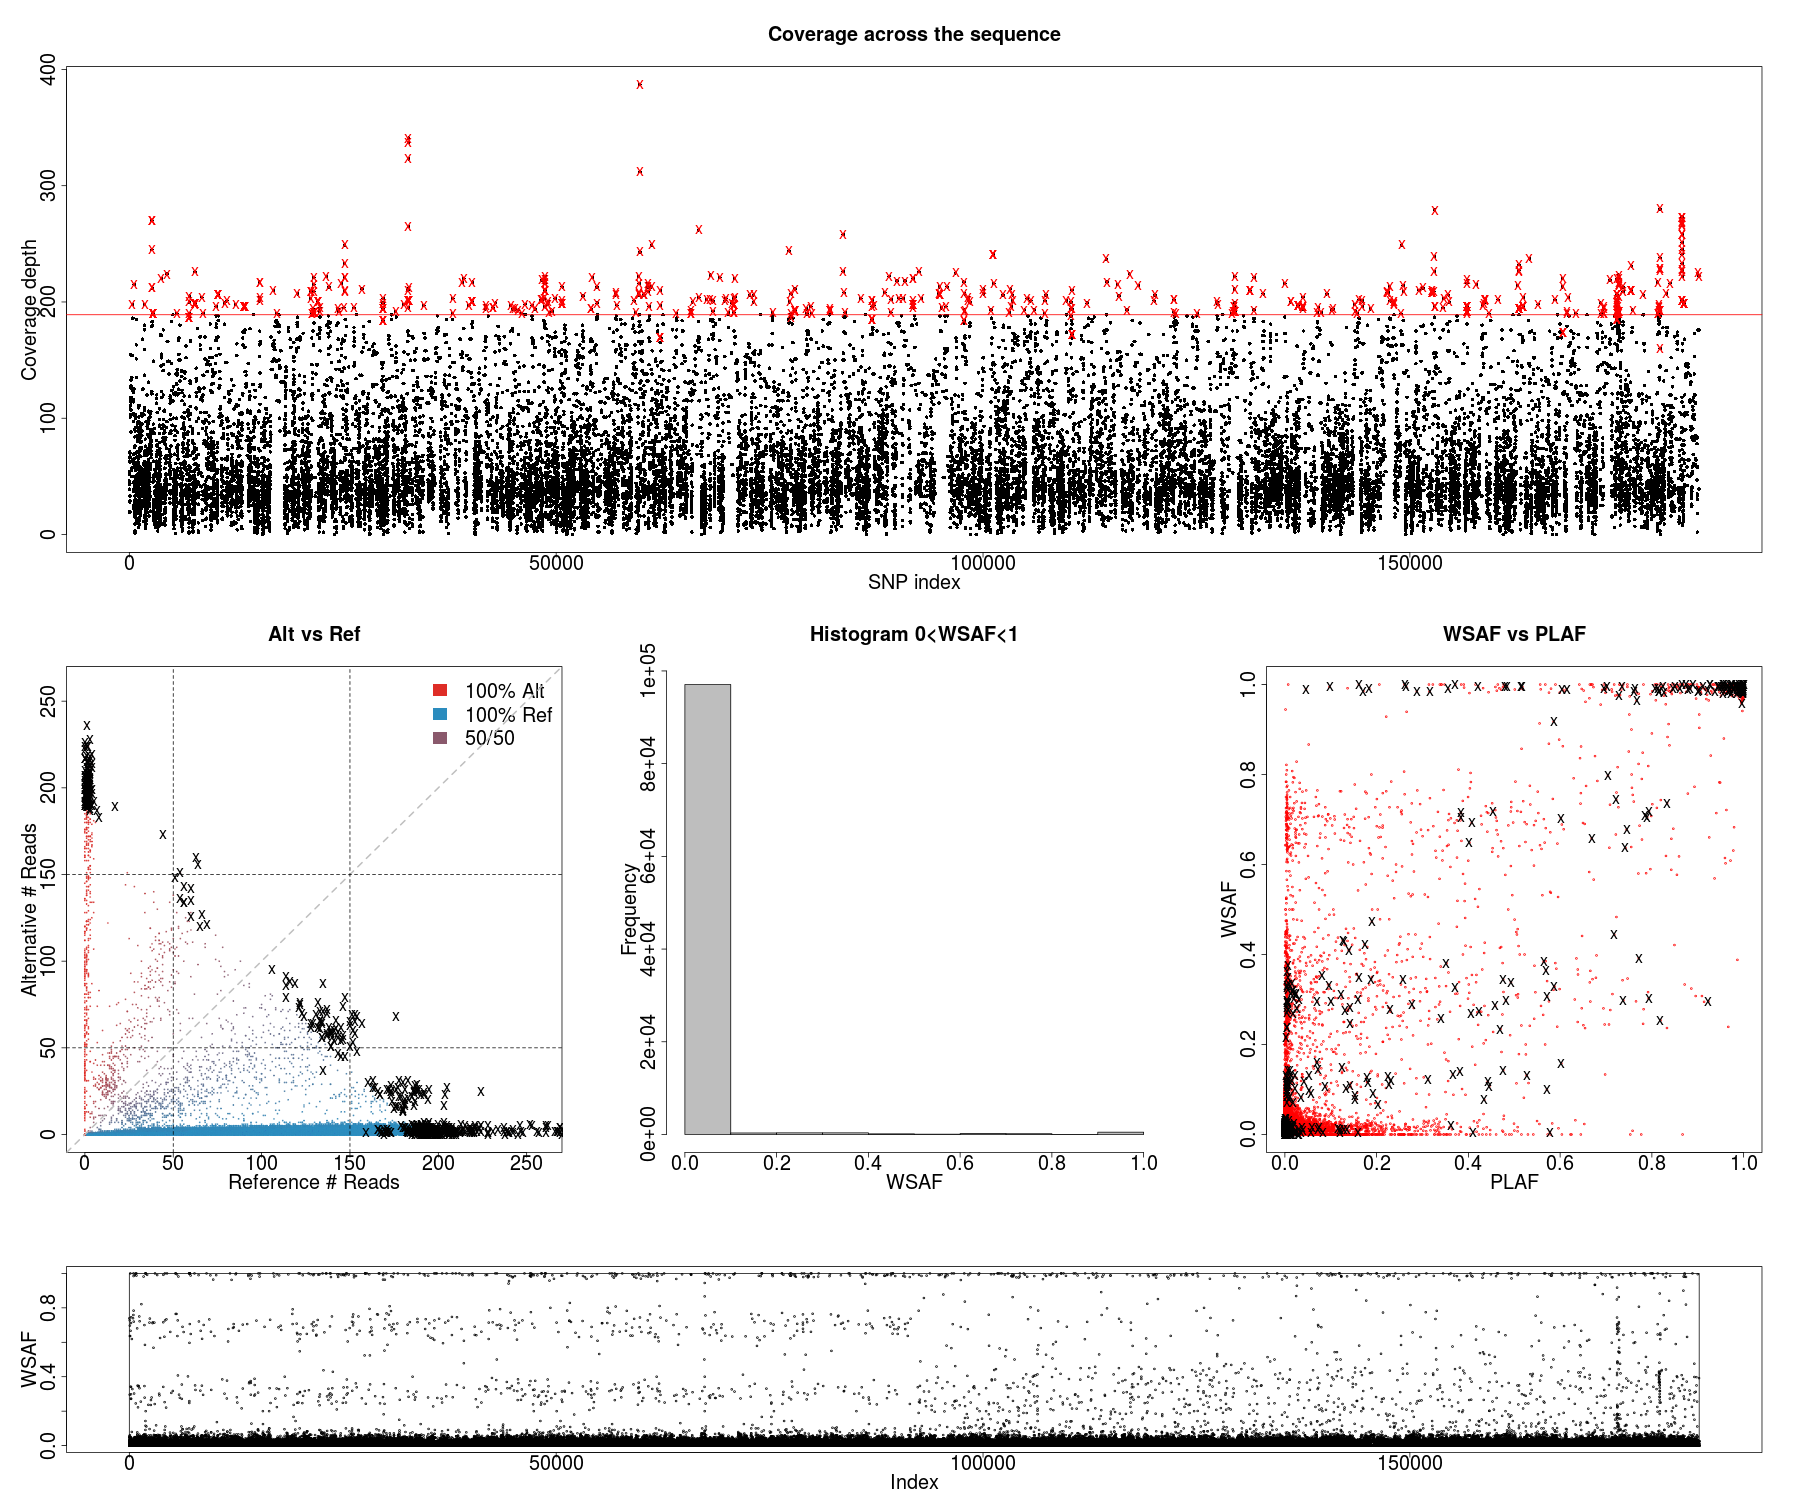
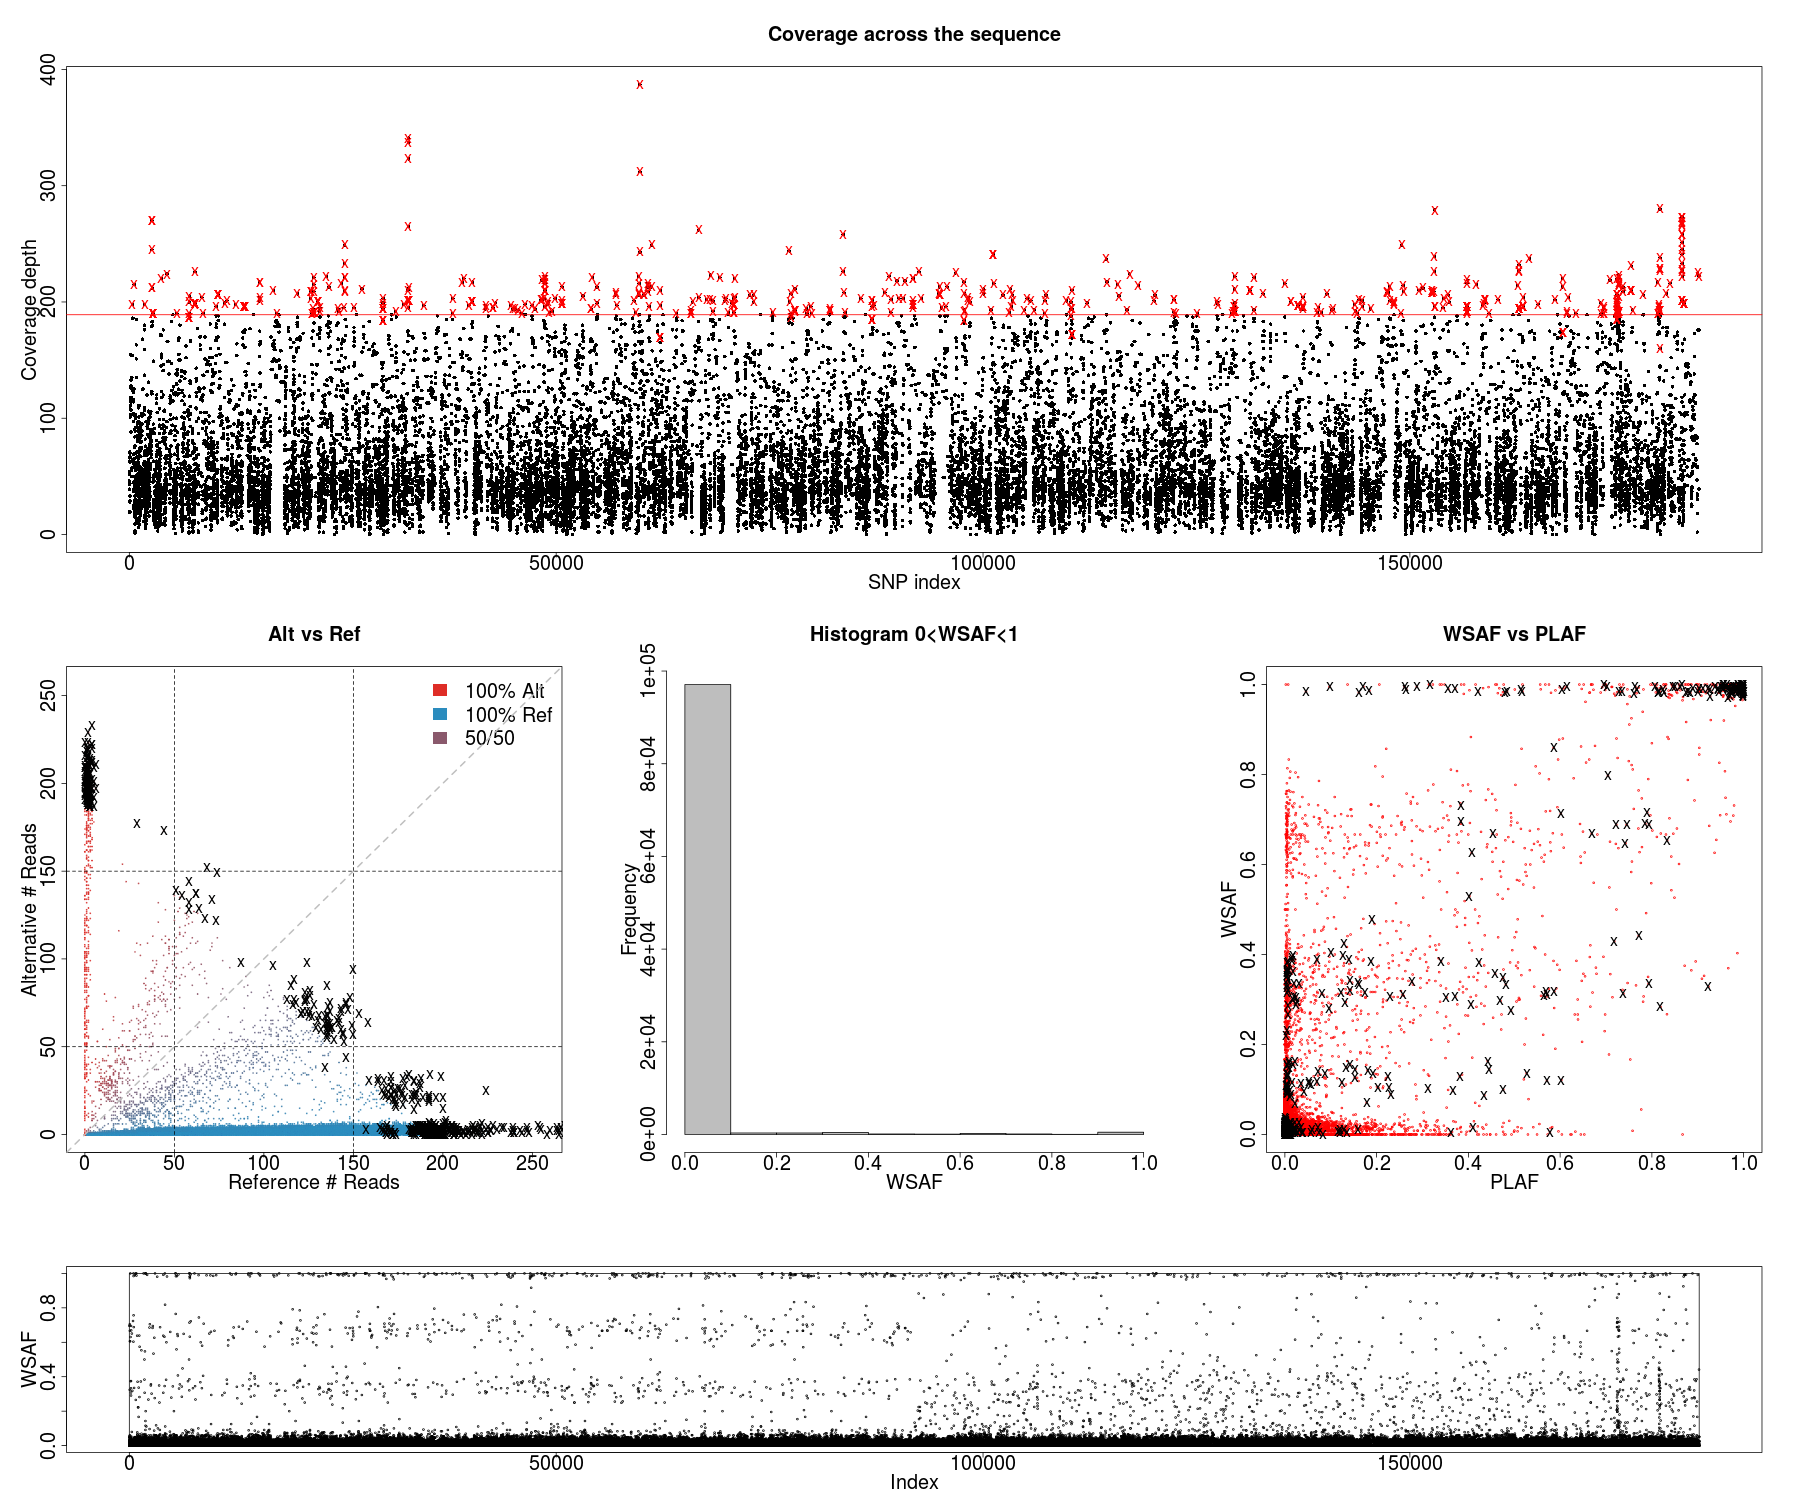
update imbalance probabilities

diff --git a/fixed_IBD/k_eq_4/README.md b/fixed_IBD/k_eq_4/README.md
@@ -17,17 +17,17 @@
 
 ```bash
 case=k_eq_4.4bites
-dataExplore.r -ref alleleCount/africaGroup2.${case}.6p10v20v30v40.ref -alt alleleCount/africaGroup2.${case}.6p10v20v30v40.alt -plaf ../../field_haps/africaGroup2_PLAF_14.txt -exclude exclude/africaGroup2.${case}.6.exclude -o ${case}
+dataExplore.r -ref alleleCount/africaGroup2.${case}.6p11v22v30v37.ref -alt alleleCount/africaGroup2.${case}.6p11v22v30v37.alt -plaf ../../field_haps/africaGroup2_PLAF_14.txt -exclude exclude/africaGroup2.${case}.6.exclude -o ${case}
 
 case=k_eq_4.3bites
-dataExplore.r -ref alleleCount/africaGroup2.${case}.6p10v20v30v40.ref -alt alleleCount/africaGroup2.${case}.6p10v20v30v40.alt -plaf ../../field_haps/africaGroup2_PLAF_14.txt -exclude exclude/africaGroup2.${case}.6.exclude -o ${case}
+dataExplore.r -ref alleleCount/africaGroup2.${case}.6p11v22v30v37.ref -alt alleleCount/africaGroup2.${case}.6p11v22v30v37.alt -plaf ../../field_haps/africaGroup2_PLAF_14.txt -exclude exclude/africaGroup2.${case}.6.exclude -o ${case}
 
 case=k_eq_4.2bites_case1
-dataExplore.r -ref alleleCount/africaGroup2.${case}.6p10v20v30v40.ref -alt alleleCount/africaGroup2.${case}.6p10v20v30v40.alt -plaf ../../field_haps/africaGroup2_PLAF_14.txt -exclude exclude/africaGroup2.${case}.6.exclude -o ${case}
+dataExplore.r -ref alleleCount/africaGroup2.${case}.6p11v22v30v37.ref -alt alleleCount/africaGroup2.${case}.6p11v22v30v37.alt -plaf ../../field_haps/africaGroup2_PLAF_14.txt -exclude exclude/africaGroup2.${case}.6.exclude -o ${case}
 
 case=k_eq_4.2bites_case2
-dataExplore.r -ref alleleCount/africaGroup2.${case}.6p10v20v30v40.ref -alt alleleCount/africaGroup2.${case}.6p10v20v30v40.alt -plaf ../../field_haps/africaGroup2_PLAF_14.txt -exclude exclude/africaGroup2.${case}.6.exclude -o ${case}
+dataExplore.r -ref alleleCount/africaGroup2.${case}.6p11v22v30v37.ref -alt alleleCount/africaGroup2.${case}.6p11v22v30v37.alt -plaf ../../field_haps/africaGroup2_PLAF_14.txt -exclude exclude/africaGroup2.${case}.6.exclude -o ${case}
 
 case=k_eq_4.1bites
-dataExplore.r -ref alleleCount/africaGroup2.${case}.6p10v20v30v40.ref -alt alleleCount/africaGroup2.${case}.6p10v20v30v40.alt -plaf ../../field_haps/africaGroup2_PLAF_14.txt -exclude exclude/africaGroup2.${case}.6.exclude -o ${case}
+dataExplore.r -ref alleleCount/africaGroup2.${case}.6p11v22v30v37.ref -alt alleleCount/africaGroup2.${case}.6p11v22v30v37.alt -plaf ../../field_haps/africaGroup2_PLAF_14.txt -exclude exclude/africaGroup2.${case}.6.exclude -o ${case}
 ```
